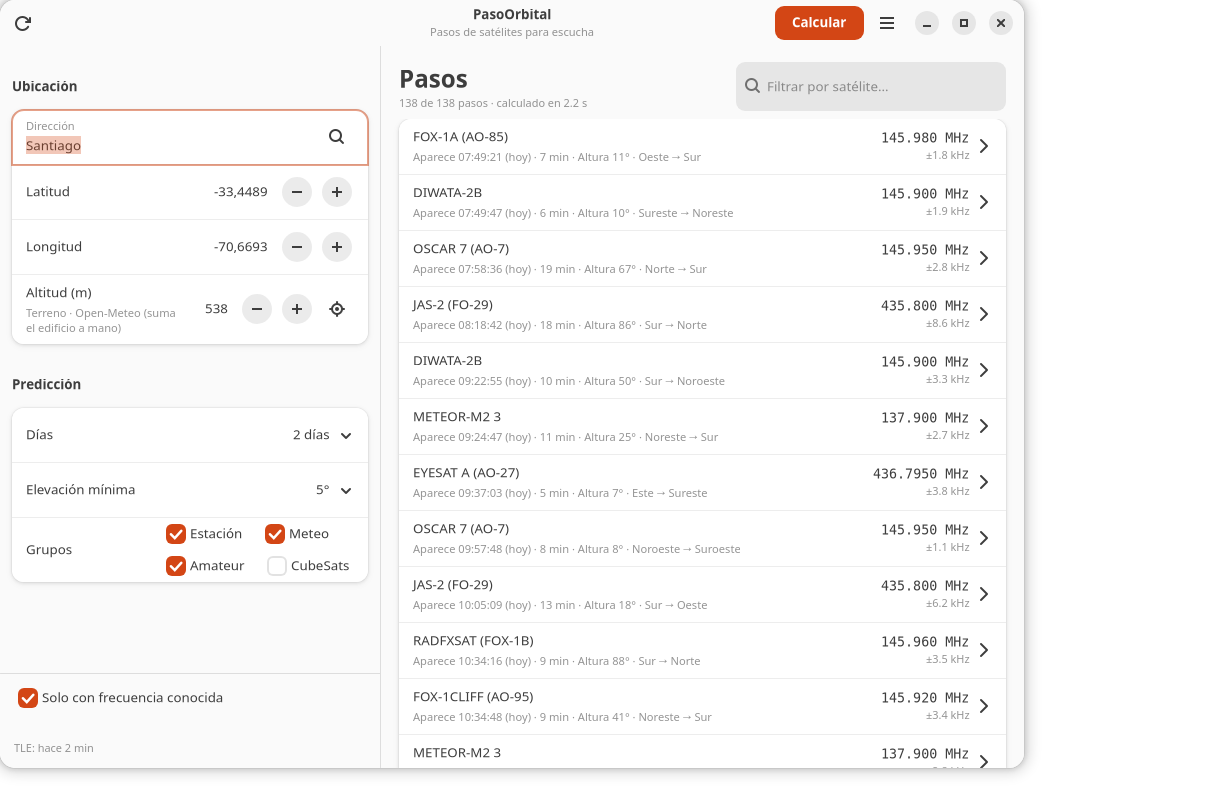
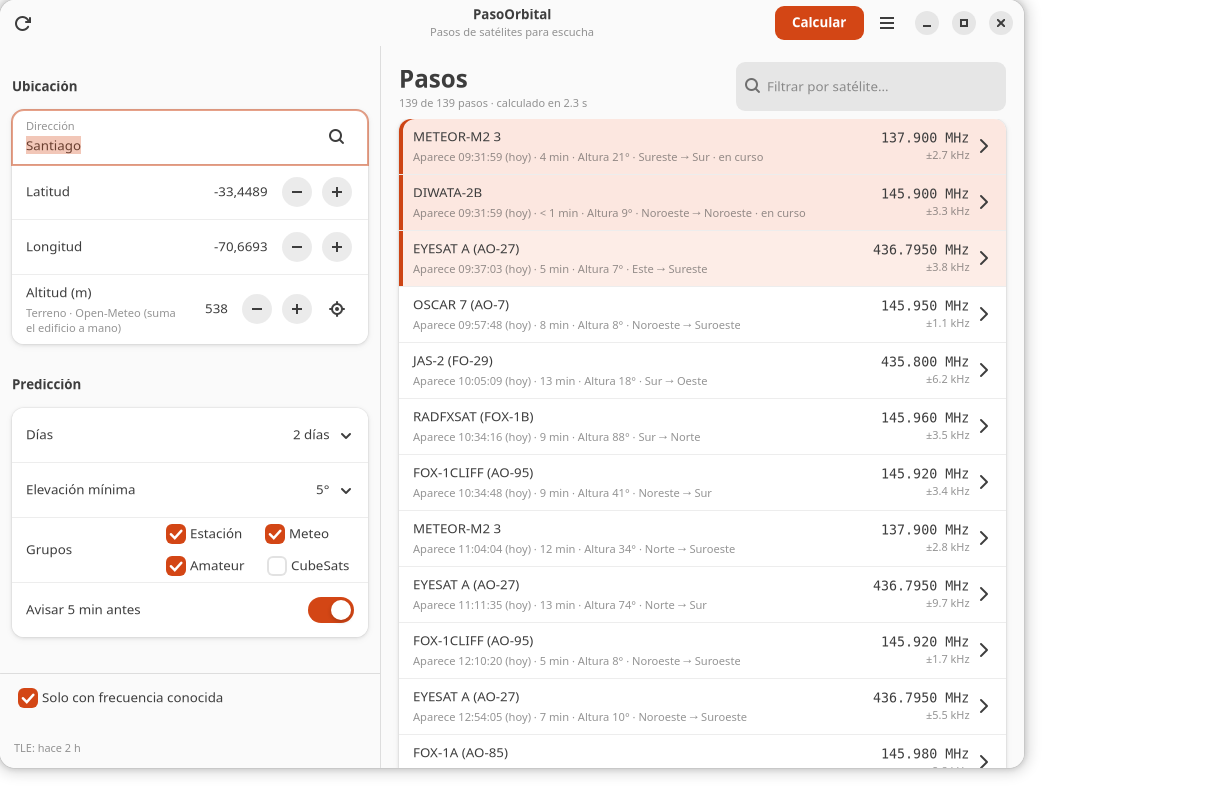
Avisos de escritorio 5 minutos antes y resaltado (1.4.0)

diff --git a/desktop/pasoorbital_gui/style.css b/desktop/pasoorbital_gui/style.css
@@ -37,3 +37,20 @@
   border-radius: 10px;
   padding: 10px 12px;
 }
+
+
+@keyframes pass-pulse {
+  0% { background-color: alpha(@accent_bg_color, 0.08); }
+  50% { background-color: alpha(@accent_bg_color, 0.22); }
+  100% { background-color: alpha(@accent_bg_color, 0.08); }
+}
+
+.pass-row.soon {
+  animation: pass-pulse 1.8s ease-in-out infinite;
+  box-shadow: inset 4px 0 0 0 @accent_color;
+}
+
+.pass-row.live {
+  background-color: alpha(@accent_bg_color, 0.14);
+  box-shadow: inset 4px 0 0 0 @accent_color;
+}

diff --git a/desktop/pasoorbital_gui/window.py b/desktop/pasoorbital_gui/window.py
@@ -41,6 +41,8 @@ class PasoOrbitalWindow(Adw.ApplicationWindow):
         self._geo_results: list[dict] = []
         self._elevation_token: tuple[float, float] | None = None
         self._setting_alt = False
+        self._row_widgets: dict[tuple[int, int], Gtk.Widget] = {}
+        self._notified: set[tuple[int, int]] = set()
         self._detail_windows: list[Adw.Window] = []
         self.shown = 250
         self.elapsed = 0.0
@@ -54,6 +56,7 @@ class PasoOrbitalWindow(Adw.ApplicationWindow):
         self._build_ui()
         self._apply_config()
         GLib.idle_add(self._initial_load)
+        GLib.timeout_add_seconds(10, self._tick)
 
     # ================================================================ UI
     def _build_ui(self) -> None:
@@ -155,6 +158,12 @@ class PasoOrbitalWindow(Adw.ApplicationWindow):
         groups_box.append(row_bottom)
         groups_row.add_suffix(groups_box)
         prediction.add(groups_row)
+
+        self.notify_row = Adw.SwitchRow(title="Avisar 5 min antes")
+        self.notify_row.set_active(True)
+        self.notify_row.set_tooltip_text("Notificación del escritorio al acercarse un paso")
+        self.notify_row.connect("notify::active", lambda *_: self._save_config())
+        prediction.add(self.notify_row)
 
         page.add(prediction)
 
@@ -295,6 +304,7 @@ class PasoOrbitalWindow(Adw.ApplicationWindow):
             "min_el": MIN_EL[self.el_row.get_selected()],
             "groups": groups,
             "only_freq": self.only_freq_check.get_active(),
+            "notify": self.notify_row.get_active(),
             "label": self.config.get("label", ""),
         }
         try:
@@ -325,6 +335,7 @@ class PasoOrbitalWindow(Adw.ApplicationWindow):
         for group_id, switch in self.switches.items():
             switch.set_active(group_id in groups)
         self.only_freq_check.set_active(bool(cfg.get("only_freq", True)))
+        self.notify_row.set_active(bool(cfg.get("notify", True)))
 
         if cfg.get("label"):
             self.address_row.set_text(str(cfg["label"]))
@@ -442,6 +453,7 @@ class PasoOrbitalWindow(Adw.ApplicationWindow):
         while child is not None:
             self.listbox.remove(child)
             child = self.listbox.get_first_child()
+        self._row_widgets.clear()
 
         query = self.search_entry.get_text().strip().lower()
         self.filtered = [item for item in self.items if not query or query in item.sat.name.lower()]
@@ -455,7 +467,9 @@ class PasoOrbitalWindow(Adw.ApplicationWindow):
 
         self.stack.set_visible_child_name("results")
         for item in self.filtered[: self.shown]:
-            self.listbox.append(self._make_row(item))
+            row = self._make_row(item)
+            self.listbox.append(row)
+            self._row_widgets[self._pass_key(item)] = row
         self.meta_label.set_text(
             f"{len(self.filtered)} de {len(self.items)} pasos · calculado en {self.elapsed:.1f} s"
         )
@@ -463,6 +477,7 @@ class PasoOrbitalWindow(Adw.ApplicationWindow):
         self.more_btn.set_visible(remaining > 0)
         if remaining > 0:
             self.more_btn.set_label(f"Mostrar más ({remaining} restantes)")
+        self._tick()
 
     def _make_row(self, item: PassItem) -> Gtk.Widget:
         now = time.time()
@@ -477,6 +492,7 @@ class PasoOrbitalWindow(Adw.ApplicationWindow):
             subtitle += " · en curso"
 
         row = Adw.ActionRow()
+        row.add_css_class("pass-row")
         row.set_use_markup(False)
         row.set_title(item.sat.name)
         row.set_subtitle(subtitle)
@@ -499,6 +515,53 @@ class PasoOrbitalWindow(Adw.ApplicationWindow):
         row.add_suffix(Gtk.Image.new_from_icon_name("go-next-symbolic"))
         row.connect("activated", lambda *_: self.show_detail(item))
         return row
+
+    # ================================================================ avisos
+    @staticmethod
+    def _pass_key(item: PassItem) -> tuple[int, int]:
+        return (item.sat.norad, int(round(item.aos)))
+
+    def _tick(self) -> bool:
+        """Resalta los pasos próximos y avisa 5 minutos antes."""
+        now = time.time()
+        lead = 5 * 60.0
+        soon: set[tuple[int, int]] = set()
+        live: set[tuple[int, int]] = set()
+        for item in self.items:
+            key = self._pass_key(item)
+            if item.aos <= now <= item.los:
+                live.add(key)
+            elif 0 < item.aos - now <= lead:
+                soon.add(key)
+                if self.notify_row.get_active() and key not in self._notified:
+                    self._notified.add(key)
+                    self._send_notification(item, now)
+        for key, row in self._row_widgets.items():
+            row.remove_css_class("soon")
+            row.remove_css_class("live")
+            if key in soon:
+                row.add_css_class("soon")
+            elif key in live:
+                row.add_css_class("live")
+        return True
+
+    def _send_notification(self, item: PassItem, now: float) -> None:
+        minutes = max(1, round((item.aos - now) / 60.0))
+        note = Gio.Notification.new(f"{item.sat.name} en {minutes} min")
+        direction = (
+            f"{fmt.compass_word(item.az_aos).capitalize()} → "
+            f"{fmt.compass_word(item.az_los).capitalize()}"
+        )
+        freq = f" · {fmt.fmt_freq(item.freq_hz)}" if item.freq_hz else ""
+        note.set_body(
+            f"{fmt.fmt_time(item.aos)} · Altura {item.max_el:.0f}° · {direction}{freq}"
+        )
+        note.set_icon(Gio.ThemedIcon.new("io.github.asterion.PasoOrbital"))
+        note.set_priority(Gio.NotificationPriority.HIGH)
+        note.set_default_action("app.present")
+        self.app.send_notification(
+            f"pass-{item.sat.norad}-{int(item.aos)}", note
+        )
 
     # ================================================================ detalle
     def show_detail(self, item: PassItem) -> None:

diff --git a/desktop/pasoorbital_gui/app.py b/desktop/pasoorbital_gui/app.py
@@ -28,6 +28,7 @@ class PasoOrbitalApplication(Adw.Application):
         actions = {
             "about": self._on_about,
             "refresh": self._on_refresh,
+            "present": self._on_present,
             "quit": self._on_quit,
         }
         for name, callback in actions.items():
@@ -45,6 +46,11 @@ class PasoOrbitalApplication(Adw.Application):
     def _on_refresh(self, *_args) -> None:
         if self.window is not None:
             self.window.refresh_tle()
+
+    def _on_present(self, *_args) -> None:
+        if self.window is not None:
+            self.window.present()
+            self.window.set_visible(True)
 
     def _on_quit(self, *_args) -> None:
         self.quit()

diff --git a/pasoorbital/geo.py b/pasoorbital/geo.py
@@ -15,7 +15,7 @@ import urllib.parse
 import urllib.request
 from pathlib import Path
 
-USER_AGENT = "pasoorbital/1.3 (herramienta local de prediccion de pasos)"
+USER_AGENT = "pasoorbital/1.4 (herramienta local de prediccion de pasos)"
 NOMINATIM = "https://nominatim.openstreetmap.org/search"
 PHOTON = "https://photon.komoot.io/api/"
 ELEVATION = "https://api.open-meteo.com/v1/elevation"

diff --git a/app.py b/app.py
@@ -302,7 +302,7 @@ def api_elevation(query: dict) -> dict:
 
 
 class Handler(BaseHTTPRequestHandler):
-    server_version = "PasoOrbital/1.3"
+    server_version = "PasoOrbital/1.4"
     protocol_version = "HTTP/1.1"
 
     # ------------------------------------------------------------- helpers

diff --git a/pasoorbital/__init__.py b/pasoorbital/__init__.py
@@ -1,3 +1,3 @@
 """PasoOrbital: predicción de pasos de satélites para escucha radio."""
 
-__version__ = "1.3.0"
+__version__ = "1.4.0"

diff --git a/desktop/pasoorbital_gui/__init__.py b/desktop/pasoorbital_gui/__init__.py
@@ -1,3 +1,3 @@
 """PasoOrbital para GNOME."""
 
-__version__ = "1.3.0"
+__version__ = "1.4.0"

diff --git a/DESARROLLO.md b/DESARROLLO.md
@@ -2,7 +2,7 @@
 
 > **Para retomar el proyecto sin perder contexto.**
 > Autores: Marcos Matamala Fernandez y DeepSeek Harness (deepseek-flash).
-> Última actualización: 17 de octubre de 2026 · Versión: 1.3 (altitud automática)
+> Última actualización: 18 de octubre de 2026 · Versión: 1.4 (avisos de escritorio)
 
 ---
 
@@ -44,6 +44,7 @@ Aplicación local (servidor Python + interfaz web) que calcula **qué satélites
 - [x] CLI: `python -m pasoorbital.cli`.
 - [x] Aplicación de escritorio GTK4/libadwaita y paquete `.deb` (`desktop/`).
 - [x] Altitud del terreno automática con Open-Meteo al buscar dirección o usar GPS; caché y ajuste manual del edificio.
+- [x] Aviso de escritorio 5 minutos antes y resaltado de pasos próximos o en curso.
 
 ---
 
@@ -407,6 +408,7 @@ pasoorbital.example.com {
 | Oct 2026 | Corregido el comando de escucha LRPT de SatDump: el primer argumento es el pipeline (`meteor_m2-x_lrpt`), el segundo la carpeta de salida. |
 | Oct 2026 | Tabla: fechas relativas («hoy», «mañana», «Lunes 19 oct»), duración sin segundos y direcciones con nombre completo («Sur → Noreste»). |
 | Oct 2026 | Tabla simplificada: AOS pasa a «Aparece», se elimina la columna LOS (basta con Aparece + Duración) y el detalle usa «Punto más alto», «Termina» y «Dirección». |
+| Oct 2026 | Versión 1.4: avisos de escritorio 5 minutos antes y resaltado de filas; solo app GNOME. |
 | Oct 2026 | Mascota **Astro** (zorro de Darwin): ilustración final, variantes y versión vectorial simplificada; especificación en `docs/astro.yaml`. |
 | Oct 2026 | Versión 1.3: altitud del terreno automática con Open-Meteo en web y escritorio, con caché y ajuste manual del edificio. |
 | Oct 2026 | Versión de escritorio GTK4/libadwaita y paquete `.deb` 1.2.0 (`desktop/`). |
@@ -455,7 +457,7 @@ PasoOrbital sin navegador ni servidor HTTP.
 | `desktop/pasoorbital_gui/format.py` | Fechas relativas, duración, resumen, comandos e ICS. |
 | `desktop/pasoorbital_gui/skyplot.py` | Gráfico polar con Cairo. |
 | `desktop/pasoorbital_gui/style.css` | Estilos sobre libadwaita. |
-| `desktop/build_deb.sh` | Genera `desktop/dist/pasoorbital_1.3.0-1_all.deb`. |
+| `desktop/build_deb.sh` | Genera `desktop/dist/pasoorbital_1.4.0-1_all.deb`. |
 | `desktop/pasoorbital.desktop`, icono, metainfo y manpage | Integración con GNOME. |
 
 - **Dependencias del paquete:** `python3-gi`, `gir1.2-gtk-4.0`, `gir1.2-adw-1`,
@@ -465,8 +467,11 @@ PasoOrbital sin navegador ni servidor HTTP.
   direcciones y altitudes en `~/.cache/pasoorbital/`.
 - **Pruebas:** se validó la interfaz con `gtk4-broadwayd` y Chrome headless;
   no hay Xvfb en el entorno de desarrollo.
+- **Avisos:** el temporizador GLib resalta los pasos a menos de 5 minutos y usa
+  `Gio.Notification`; solo funciona con la app abierta (el modo en segundo plano
+  queda para una fase posterior).
 - **Limitaciones:** sin geolocalización automática, sin glosario contextual en
-  la app, sin notificaciones, sin Flatpak y sin tests de interfaz automatizados.
+  la app, sin Flatpak y sin tests de interfaz automatizados.
   El paquete es `Architecture: all` y depende de `python3-sgp4` (compilado para
   la arquitectura).
 

diff --git a/README.md b/README.md
@@ -24,6 +24,8 @@ TLE para poder predecir sin conexión.
 - **Ubicación** por dirección (Nominatim), por coordenadas o con el GPS del navegador.
 - **Altitud del terreno automática** al buscar una dirección o usar el GPS, con
   Open-Meteo (DEM Copernicus); el edificio se ajusta a mano.
+- **Avisos de escritorio** 5 minutos antes de un paso y resaltado de la fila
+  próxima o en curso (app GNOME).
 - **Predicción de pasos** para 1, 2, 3 o 7 días, con elevación mínima configurable.
 - **Catálogo** de estaciones espaciales, satélites meteorológicos, radioaficionados
   (AMSAT) y CubeSats, descargado de CelesTrak y cacheado 6 horas.
@@ -93,7 +95,7 @@ navegador, empaquetada como `.deb`.
 ```bash
 cd desktop
 ./build_deb.sh
-sudo apt install ./dist/pasoorbital_1.3.0-1_all.deb
+sudo apt install ./dist/pasoorbital_1.4.0-1_all.deb
 pasoorbital-gui
 ```
 
@@ -105,14 +107,16 @@ pasoorbital-gui
 > desde allí:
 >
 > ```bash
-> cp desktop/dist/pasoorbital_1.3.0-1_all.deb /tmp/
-> sudo apt install /tmp/pasoorbital_1.3.0-1_all.deb
+> cp desktop/dist/pasoorbital_1.4.0-1_all.deb /tmp/
+> sudo apt install /tmp/pasoorbital_1.4.0-1_all.deb
 > ```
 
 Depende de `python3-gi`, `gir1.2-gtk-4.0`, `gir1.2-adw-1` (1.6 o superior),
 `python3-numpy` y `python3-sgp4` (en Ubuntu, este último está en `universe`).
 La configuración se guarda en `~/.config/pasoorbital/` y los TLE y la caché en
-`~/.cache/pasoorbital/`.
+`~/.cache/pasoorbital/`. La app resalta los pasos que aparecen en los próximos
+5 minutos y, con «Avisar 5 min antes» activo, envía una notificación del
+escritorio.
 
 [Detalle de un paso en la app de escritorio](docs/desktop-detalle.png).
 

diff --git a/desktop/README.md b/desktop/README.md
@@ -4,7 +4,8 @@
 
 Aplicación de escritorio en **GTK4 + libadwaita** que reutiliza el motor de
 PasoOrbital (`sgp4`, TLE de CelesTrak, frecuencias y geocodificación) sin depender
-del navegador.
+del navegador. Resalta los pasos que aparecen en los próximos 5 minutos y avisa
+con una notificación del escritorio.
 
 ## Requisitos
 
@@ -20,12 +21,12 @@ cd desktop
 ./build_deb.sh
 ```
 
-El paquete queda en `desktop/dist/pasoorbital_1.3.0-1_all.deb`.
+El paquete queda en `desktop/dist/pasoorbital_1.4.0-1_all.deb`.
 
 ## Instalar
 
 ```bash
-sudo apt install ./desktop/dist/pasoorbital_1.3.0-1_all.deb
+sudo apt install ./desktop/dist/pasoorbital_1.4.0-1_all.deb
 ```
 
 > **Aviso de apt al instalar un `.deb` local:** si aparece
@@ -36,8 +37,8 @@ sudo apt install ./desktop/dist/pasoorbital_1.3.0-1_all.deb
 > desde allí:
 >
 > ```bash
-> cp dist/pasoorbital_1.3.0-1_all.deb /tmp/
-> sudo apt install /tmp/pasoorbital_1.3.0-1_all.deb
+> cp dist/pasoorbital_1.4.0-1_all.deb /tmp/
+> sudo apt install /tmp/pasoorbital_1.4.0-1_all.deb
 > ```
 
 

diff --git a/CHANGELOG.md b/CHANGELOG.md
@@ -3,6 +3,23 @@
 Formato basado en [Keep a Changelog](https://keepachangelog.com/es-ES/1.1.0/)
 y versionado [SemVer](https://semver.org/lang/es/).
 
+## [1.4.0] - 2026-10-18
+
+### Añadido
+
+- **Aviso de escritorio 5 minutos antes** de cada paso, mediante
+  `Gio.Notification`.
+- **Resaltado de la fila** del paso que aparece en los próximos 5 minutos o que
+  ya está en curso.
+- Interruptor **«Avisar 5 min antes»** en el panel de predicción, con la
+  preferencia guardada.
+- Acción `app.present`: al pulsar la notificación se trae la ventana al frente.
+
+### Notas
+
+- Esta versión es solo para la app de escritorio; la web queda para una fase
+  posterior.
+
 ## [1.3.0] - 2026-10-17
 
 ### Añadido

diff --git a/SECURITY.md b/SECURITY.md
@@ -2,7 +2,7 @@
 
 ## Versiones soportadas
 
-La rama principal y la última versión publicada (1.3.x) reciben correcciones
+La rama principal y la última versión publicada (1.4.x) reciben correcciones
 de seguridad.
 
 ## Cómo reportar
